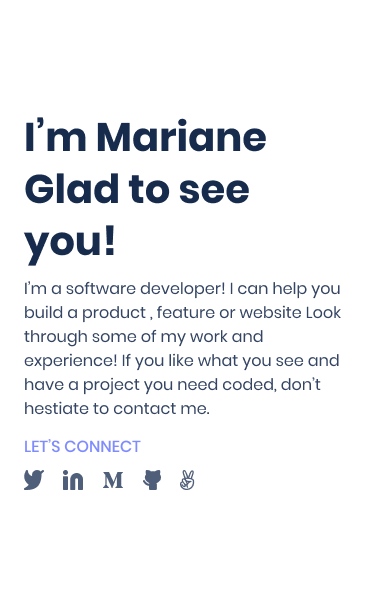
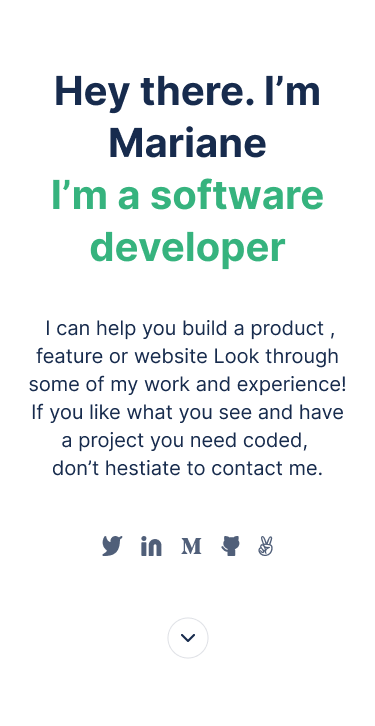
Update design with figma template

diff --git a/style.css b/style.css
@@ -7,14 +7,13 @@
   padding: 0;
   scroll-behavior: smooth;
   overflow: hidden;
-  font-family: roboto, Arial, Verdana, Geneva, Tahoma, sans-serif;
+  font-family: 'roboto', Arial, Verdana, Geneva, Tahoma, sans-serif;
 }
 
 /* navbar Style */
 header {
   align-items: center;
   height: 10vh;
-  background-color: black;
   display: flex;
   justify-content: space-between;
   padding-left: 10%;
@@ -22,116 +21,70 @@ header {
   opacity: 0.9;
 }
 
-.logo-link {
+.welcome-link {
   text-decoration: none;
-}
-
-.logo-text {
-  background-color: white;
-  padding-left: 10px;
-  text-align: center;
-
-  /* font-family: 'Roboto'; */
-  letter-spacing: 10px;
+  font-weight: 800;
   color: black;
-  font-size: 1.5rem;
-  font-weight: bold;
-  text-transform: uppercase;
-}
-
-img {
-  background-color: white;
-  border-radius: 5px;
 }
 
 /* Welcome Section Style */
-.section1 {
-  display: flex;
-  background-image: url("/images/background-ppt-white-shades.jpg");
-  background-repeat: no-repeat;
-  backdrop-filter: blur(50px);
-
-  /* height: 100vh; */
-  height: 100vh; /* Fallback for browsers that do not support Custom Properties */
-  height: calc(var(--vh, 1vh) * 100);
-  background-size: cover;
+.welcome-section {
+  background-image: url("/images/header-illsutration-mobile.png");
+  height: 90vh;
 }
 
 .container {
-  position: relative;
-  top: 30px;
-}
-
-.blur-background {
-  margin: auto;
-  background-color: rgba(128, 128, 128, 0.4);
-  backdrop-filter: blur(5px);
-  padding: 20px;
-  height: 80vh;
-  width: 80%;
-  border-radius: 5px;
   display: flex;
   flex-direction: column;
   align-items: center;
+  height: 100%;
+  width: 90%;
+  margin: auto;
 }
 
-h1 {
+.welcome-section > .container > h1 {
+  margin-top: 15%;
+  font-size: 2.5rem;
   text-align: center;
+  letter-spacing: 1px;
+  font-weight: 900;
+  color: #172b4d;
 }
 
-.name-span {
-  font-size: 3rem;
-  padding-left: 10px;
-  padding-right: 10px;
-  border-radius: 5px;
-  background: rgb(238, 174, 202);
-  background:
-    radial-gradient(
-      circle,
-      rgba(238, 174, 202, 1) 0%,
-      rgba(148, 187, 233, 1) 100%
-    );
+.welcome-section > .container > h2 {
+  font-size: 2rem;
+  text-align: center;
+  letter-spacing: 1px;
+  font-weight: 900;
+  color: #32b37e;
+}
+
+.welcome-section > .container > p {
+  line-height: 1.6;
+  width: 80%;
+  font-size: 1.1rem;
+  height: 30%;
+  text-justify: inter-word;
+  margin-top: 20px;
+  text-align: center;
+  color: #172b4d;
+}
+
+ul {
+  list-style-type: none;
+  padding: 0;
+  margin: 0;
+  display: flex;
+  flex-direction: row;
+  justify-content: space-between;
+}
+
+.social-link {
+  margin-top: 5vh;
+  width: 50%;
 }
 
 i {
-  font-size: 2rem;
-  color: black;
-}
-
-i:hover {
-  color: blue;
-}
-
-#header-description {
-  text-align-last: justify;
-  padding: 5%;
-  font-size: 1.3rem;
-}
-
-.link-connect {
-  color: black;
   font-size: 1.5rem;
-  font-weight: bold;
-  text-decoration: none;
-  border: 1px solid black;
-  border-radius: 5px;
-  padding: 10px;
-  margin-top: 10px;
-}
-
-.social-icon {
-  margin-top: 20px;
-  padding: 10px;
-  display: flex;
-  flex-direction: row;
-  justify-content: space-around;
-  width: 100%;
-}
-
-.social-icon > ul {
-  list-style-type: none;
-  display: flex;
-  flex-direction: row;
-  justify-content: space-around;
-  width: 100%;
+  color: #505f79;
 }

diff --git a/index.html b/index.html
@@ -1,10 +1,10 @@
 <!DOCTYPE html>
 <html lang="en">
-  <head>
-    <meta charset="UTF-8" />
-    <meta http-equiv="X-UA-Compatible" content="IE=edge" />
-    <meta name="viewport" content="width=device-width, initial-scale=1.0" />
-    <title>Document</title>
+<head>
+    <meta charset="UTF-8">
+    <meta http-equiv="X-UA-Compatible" content="IE=edge">
+    <meta name="viewport" content="width=device-width, initial-scale=1.0">
+    <title>Portfolio</title>
     <link rel="stylesheet" href="style.css" />
     <link
       rel="stylesheet"
@@ -13,49 +13,39 @@
       crossorigin="anonymous"
       referrerpolicy="no-referrer"
     />
-  </head>
-  <body>
+</head>
+<body>
     <!-- Header Section -->
     <header>
-      <div class="logo">
-        <a href="#" class="logo-link"><div class="logo-text">Zied</div></a>
-      </div>
-      <nav class="navbar">
-        <img src="images/align-right.svg" alt="Menu-icon" />
-      </nav>
-    </header>
-    <!-- Main Section -->
-    <section class="section1">
-      <div class="container">
-        <div class="blur-background">
-          <h1>
-            <span class="name-span">I'm Zied</span> <br />
-            Glad to see you!
-          </h1>
-          <p id="header-description">
-            I'm a software developer! I can help you build product, feature or
-            website look through some of my work and experience! if you like
-            what you see and have a project you need coded, don't hesitate to
-            contact me.
-          </p>
-          <a class="link-connect" href="#">Let's Connect</a>
-          <div class="social-icon">
-            <ul>
-              <li>
-                <i class="fa-brands fa-square-github"></i>
-              </li>
-              <li>
-                <i class="fa-brands fa-linkedin"></i>
-              </li>
-              <li>
-                <i class="fa-brands fa-square-twitter"></i>
-              </li>
-            </ul>
-          </div>
+        <div class="logo-welcome">
+           <a href="#" class="welcome-link">Welcome</a>
         </div>
-      </div>
+        <nav>
+            <a href="#"><img src="images/align-right.svg" alt=""></a>
+        </nav>
+    </header>
+    <!-- Welcome Section -->
+    <section>
+        <div class="welcome-section">
+            <div class="container">
+                <h1>Hey there. I'm <br/> Zied</h1>
+            <h2>I'm a software developer</h2>
+            <p>
+                 I can help you build a product , feature or website Look through some of my work and experience! If you like what you see and have a project you need coded, 
+don’t hestiate to contact me.
+            </p>
+            
+            <div class="social-link">
+                <ul>
+                    <li><a href="#"><i class="fa-brands fa-github"></i></a></li>
+                    <li><a href="#"><i class="fa-brands fa-linkedin-in"></i></a></li>
+                    <li><a href="#"><i class="fa-brands fa-twitter"></i></a></li>
+                    <li><a href="#"><i class="fa-brands fa-angellist"></i></a></li>
+                </ul>
+            </div>
+            </div>
+        </div>
     </section>
-    <!-- Footer Section -->
-    <footer></footer>
-  </body>
+    <!-- Works Section -->
+</body>
 </html>
